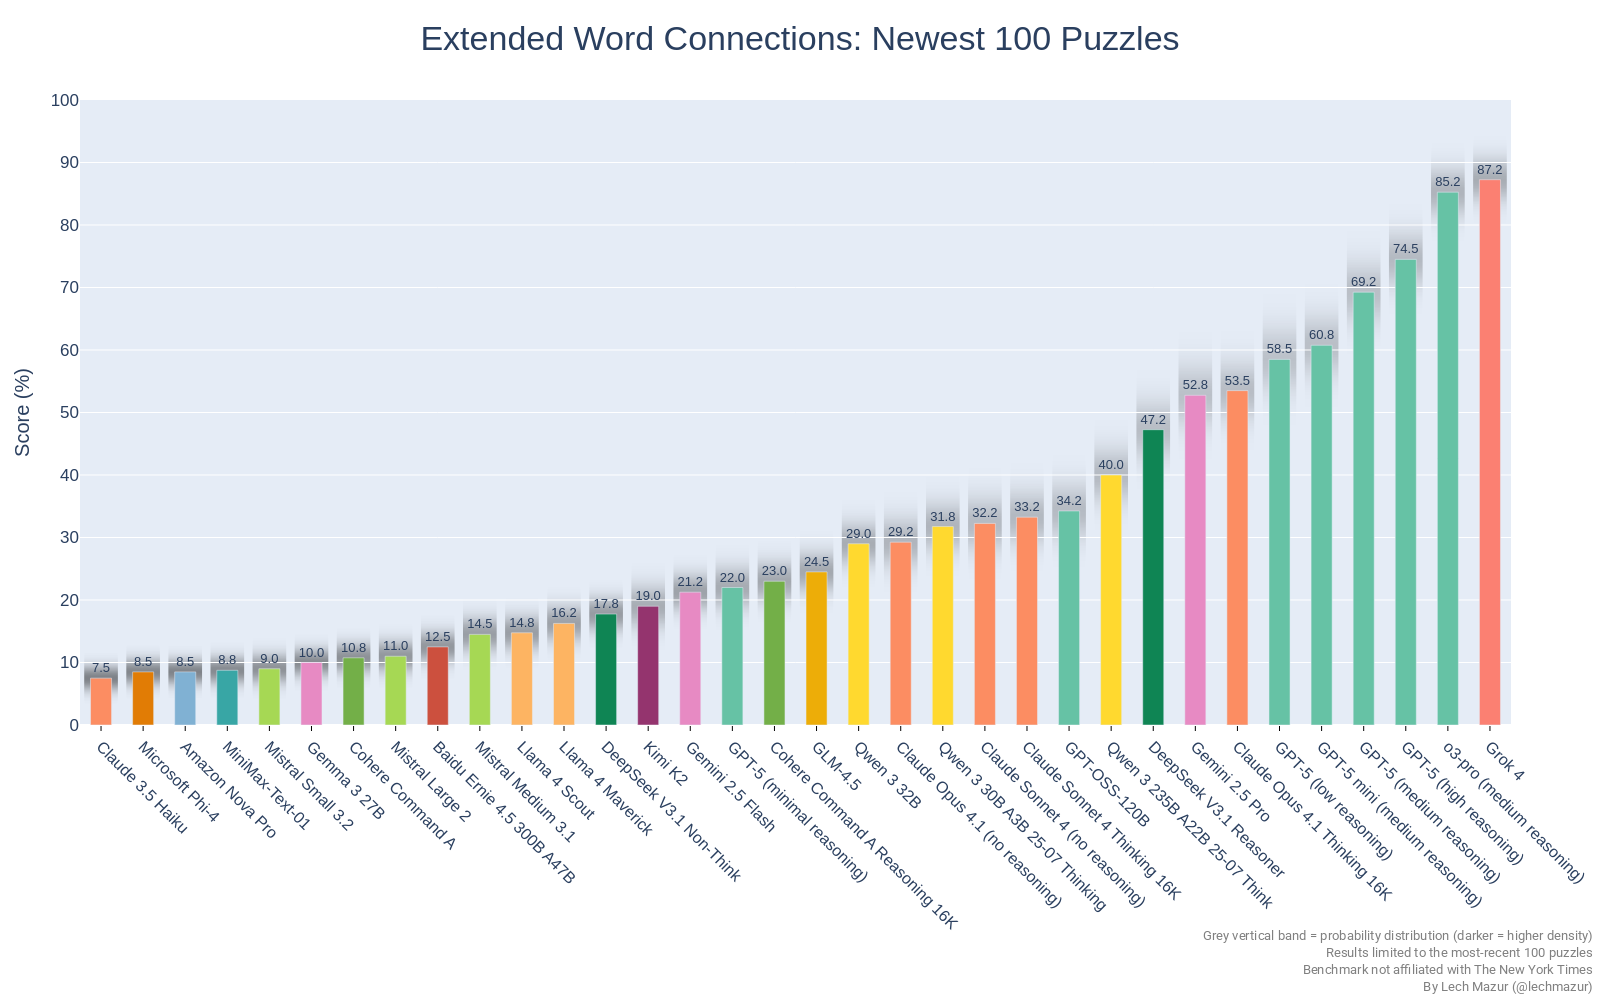
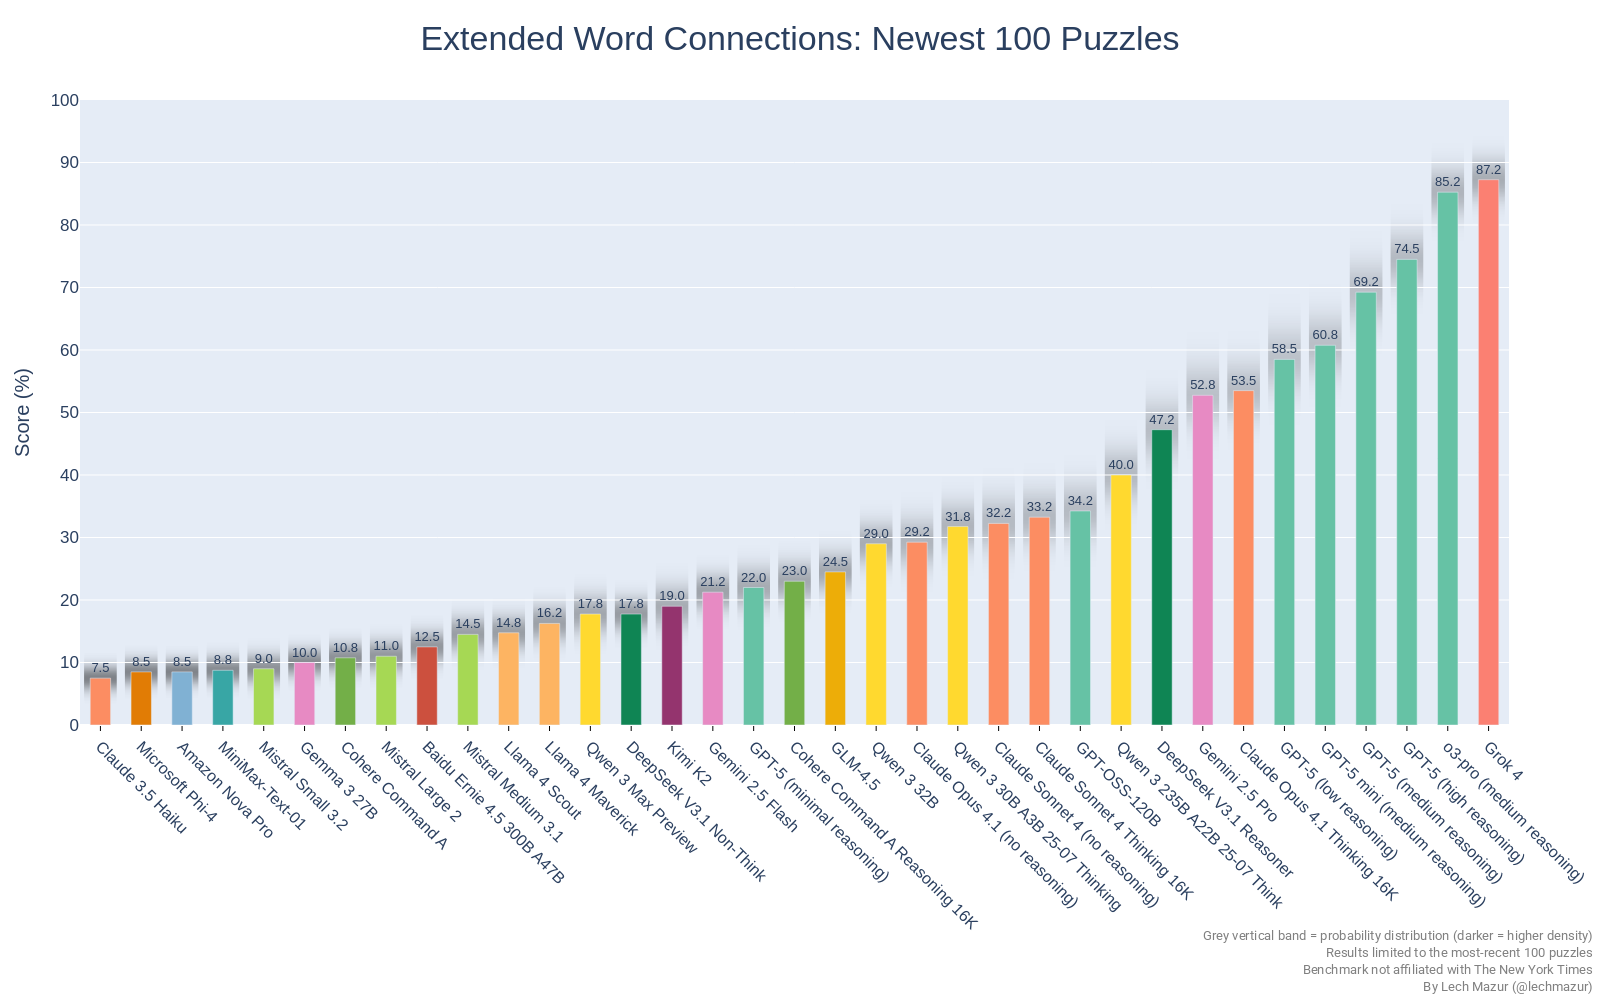
Qwen 3 Max Preview

diff --git a/README.md b/README.md
@@ -57,49 +57,51 @@ As of Feb 4, 2025, there is a new version of the benchmark. The standard NYT Con
 |43|Cohere Command A Reasoning 16K|25.3|759|
 |44|Gemini 2.5 Flash|25.2|759|
 |45|GPT-4o Mar 2025|24.5|759|
-|46|Gemini 2.0 Flash Think Exp 01-21|23.1|649|
-|47|GPT-4.1|22.8|759|
-|48|GPT-4o Feb 2025|22.7|651|
-|49|Gemini 2.0 Pro Exp 02-05|21.7|651|
-|50|DeepSeek V3.1 Non-Think|21.6|759|
-|51|MiniMax-M1|21.3|688|
-|52|Kimi K2|19.8|759|
-|53|Grok 3 Beta (no reasoning)|19.7|759|
-|54|Grok 2 12-12|19.2|651|
-|55|Gemini 1.5 Pro (Sept)|19.2|601|
-|56|Claude 3 Opus|19.2|650|
-|57|Claude 3.7 Sonnet|19.2|651|
-|58|Gemini 2.0 Flash|18.8|651|
-|59|GPT-4o 2024-11-20|18.7|601|
-|60|Llama 4 Maverick|18.5|759|
-|61|Qwen 2.5 Max|18.0|651|
-|62|GPT-4o 2024-08-06|17.8|601|
-|63|Claude 3.5 Sonnet 2024-10-22|17.7|651|
-|64|Llama 4 Scout|17.4|759|
-|65|DeepSeek V3-0324|16.8|759|
-|66|Llama 3.1 405B|16.2|651|
-|67|Mistral Medium 3.1|15.2|759|
-|68|DeepSeek V3|15.1|651|
-|69|Llama 3.3 70B|15.1|651|
-|70|Baidu Ernie 4.5 300B A47B|14.8|759|
-|71|GPT-4.1 mini|14.4|759|
-|72|MiniMax-Text-01|13.8|759|
-|73|Cohere Command A|13.1|759|
-|74|Mistral Large 2|12.4|759|
-|75|Gemma 2 27B|12.2|651|
-|76|Gemma 3 27B|11.6|759|
-|77|Mistral Medium 3|11.5|759|
-|78|Mistral Small 3.1|11.4|651|
-|79|Mistral Small 3.2|11.2|759|
-|80|Qwen 2.5 72B|10.5|759|
-|81|Claude 3.5 Haiku|10.0|759|
-|82|Amazon Nova Pro|9.9|759|
-|83|Microsoft Phi-4|9.9|759|
-|84|GPT-4o mini|9.7|759|
-|85|Mistral Small 3|8.9|601|
-|86|GPT-4.1 nano|8.1|759|
-|87|GLM4-32B-0414|7.6|759|
-|88|Claude 3 Haiku|2.2|601|
+|46|Qwen 3 Max Preview|23.9|759|
+|47|Gemini 2.0 Flash Think Exp 01-21|23.1|649|
+|48|GPT-4.1|22.8|759|
+|49|GPT-4o Feb 2025|22.7|651|
+|50|Gemini 2.0 Pro Exp 02-05|21.7|651|
+|51|DeepSeek V3.1 Non-Think|21.6|759|
+|52|MiniMax-M1|21.3|688|
+|53|Kimi K2|19.8|759|
+|54|Grok 3 Beta (no reasoning)|19.7|759|
+|55|Grok 2 12-12|19.2|651|
+|56|Gemini 1.5 Pro (Sept)|19.2|601|
+|57|Claude 3 Opus|19.2|650|
+|58|Claude 3.7 Sonnet|19.2|651|
+|59|Gemini 2.0 Flash|18.8|651|
+|60|GPT-4o 2024-11-20|18.7|601|
+|61|Llama 4 Maverick|18.5|759|
+|62|Qwen 2.5 Max|18.0|651|
+|63|GPT-4o 2024-08-06|17.8|601|
+|64|Claude 3.5 Sonnet 2024-10-22|17.7|651|
+|65|Llama 4 Scout|17.4|759|
+|66|DeepSeek V3-0324|16.8|759|
+|67|Llama 3.1 405B|16.2|651|
+|68|Mistral Medium 3.1|15.2|759|
+|69|DeepSeek V3|15.1|651|
+|70|Llama 3.3 70B|15.1|651|
+|71|Baidu Ernie 4.5 300B A47B|14.8|759|
+|72|GPT-4.1 mini|14.4|759|
+|73|MiniMax-Text-01|13.8|759|
+|74|Cohere Command A|13.1|759|
+|75|Mistral Large 2|12.4|759|
+|76|Gemma 2 27B|12.2|651|
+|77|Gemma 3 27B|11.6|759|
+|78|Mistral Medium 3|11.5|759|
+|79|Mistral Small 3.1|11.4|651|
+|80|Mistral Small 3.2|11.2|759|
+|81|Qwen 2.5 72B|10.5|759|
+|82|Claude 3.5 Haiku|10.0|759|
+|83|Amazon Nova Pro|9.9|759|
+|84|Microsoft Phi-4|9.9|759|
+|85|GPT-4o mini|9.7|759|
+|86|Mistral Small 3|8.9|601|
+|87|GPT-4.1 nano|8.1|759|
+|88|GLM4-32B-0414|7.6|759|
+|89|Claude 3 Haiku|2.2|601|
+
 
 
 ---
@@ -198,6 +200,7 @@ This benchmark evaluates large language models (LLMs) using 436 NYT Connections 
 ## Other benchmarks
 - [LLM Thematic Generalization Benchmark](https://github.com/lechmazur/generalization/)
 - [LLM Creative Story-Writing Benchmark](https://github.com/lechmazur/writing/)
+- [Mapping LLM Style and Range in Flash Fiction](https://github.com/lechmazur/writing_styles)
 - [LLM Confabulation/Hallucination Benchmark](https://github.com/lechmazur/confabulations/)
 - [LLM Deceptiveness and Gullibility](https://github.com/lechmazur/deception/)
 - [LLM Divergent Thinking Creativity Benchmark](https://github.com/lechmazur/divergent/)
@@ -205,6 +208,7 @@ This benchmark evaluates large language models (LLMs) using 436 NYT Connections 
 ---
 
 ## Updates
+- Sep 5, 2025: Qwen 3 Max Preview added.
 - Aug 23, 2025: GPT-5 high reasoning and Cohere Command A Reasoning (16K) added.
 - Aug 22, 2025: DeepSeek 3.1, Qwen 3 30B A3B 25-07, Mistral Medium 3.1, GPT-5 minimal and low reasoning added.
 - Aug 7, 2025: GPT-5 added.
